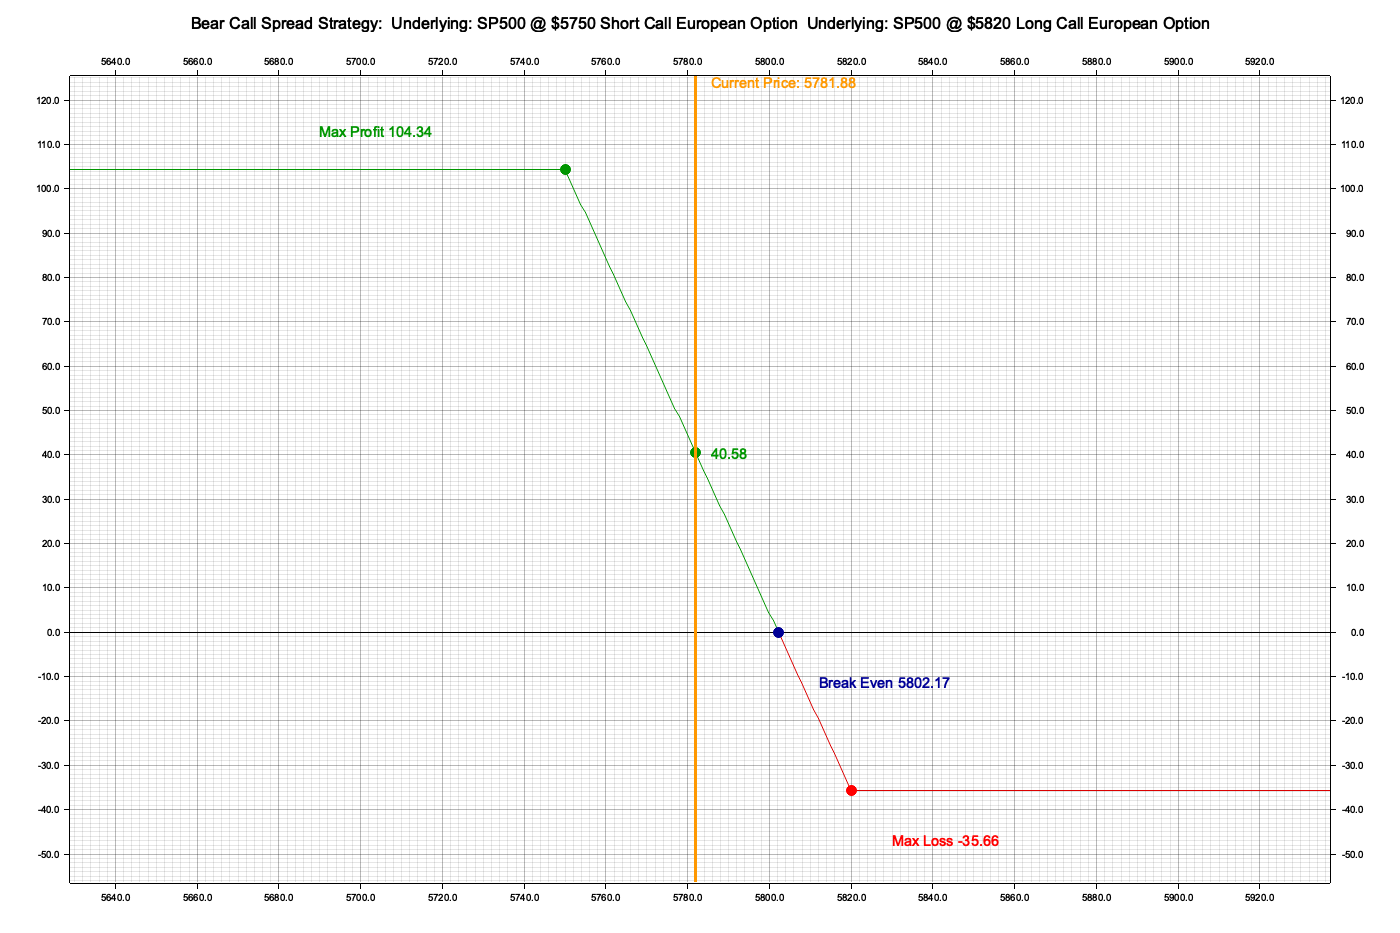
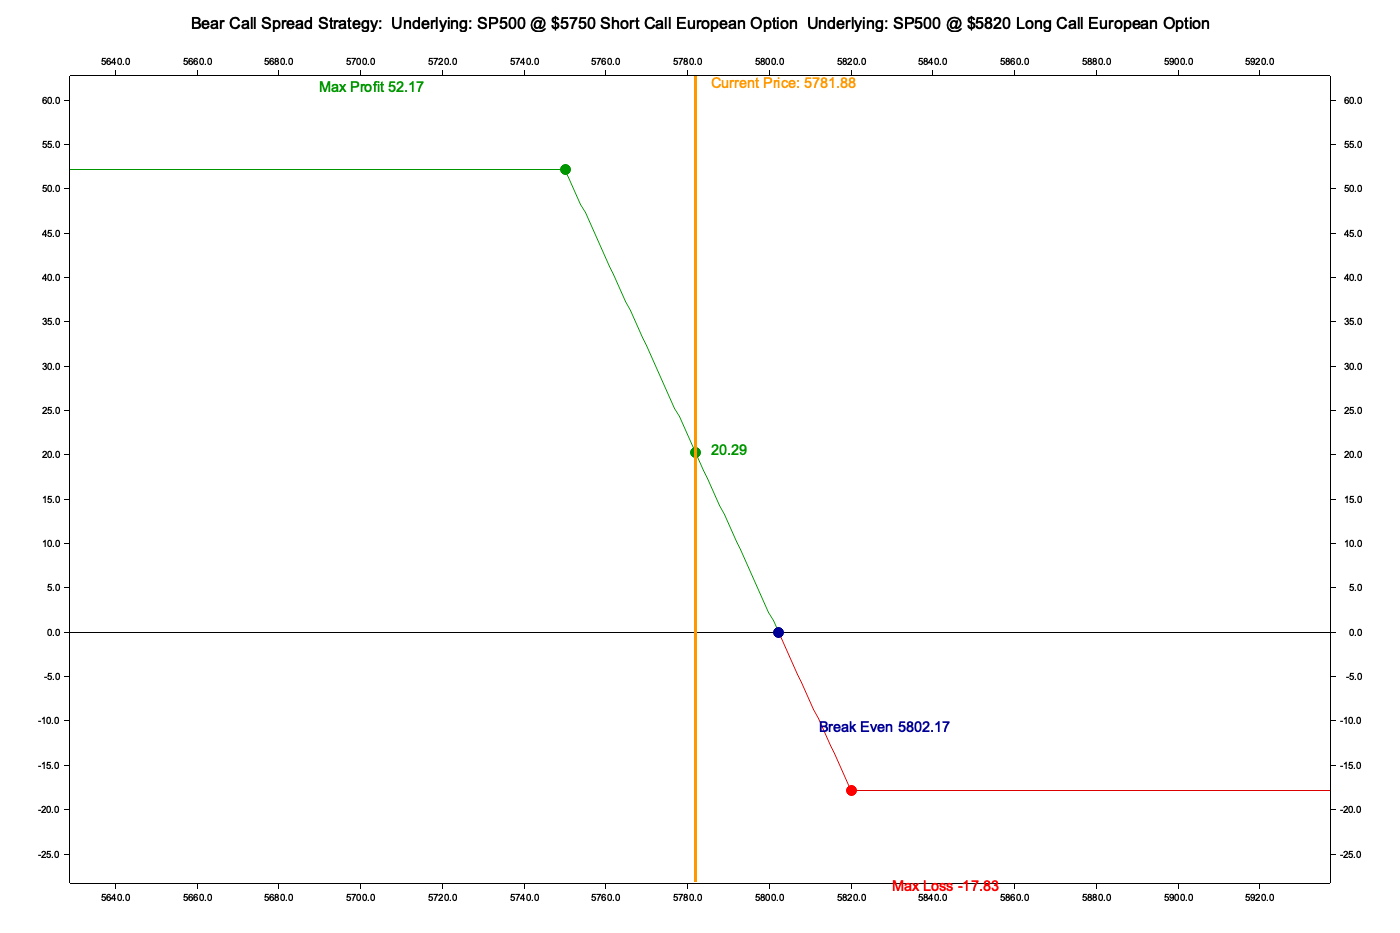
Update bear call spread logic and adjust parameters
Removed unused `fees` method from the bear call spread strategy to simplify code. Adjusted long quantity parameter from 2.0 to 1.0 in example strategy for accuracy and better alignment with the intended calculation. (ref. #83)

Changed region(s): [[0.0307, 0.0622, 0.9829, 0.9636]]

diff --git a/src/strategies/bear_call_spread.rs b/src/strategies/bear_call_spread.rs
@@ -233,14 +233,6 @@ impl Strategies for BearCallSpread {
         )
     }
 
-    fn fees(&self) -> Result<Decimal, StrategyError> {
-        let result = self.short_call.open_fee
-            + self.short_call.close_fee
-            + self.long_call.open_fee
-            + self.long_call.close_fee;
-        Ok(Decimal::from_f64(result).unwrap())
-    }
-
     fn profit_area(&self) -> Result<Decimal, StrategyError> {
         let high = self.max_profit().unwrap_or(Positive::ZERO);
         let base = self.break_even_points[0] - self.short_call.option.strike_price;

diff --git a/examples/examples_strategies/src/bin/strategy_bear_call_spread.rs b/examples/examples_strategies/src/bin/strategy_bear_call_spread.rs
@@ -28,7 +28,7 @@ fn main() -> Result<(), Box<dyn Error>> {
         pos!(0.18),     // implied_volatility
         dec!(0.05),     // risk_free_rate
         Positive::ZERO, // dividend_yield
-        pos!(2.0),      // long quantity
+        pos!(1.0),      // long quantity
         85.04,          // premium_long
         29.85,          // premium_short
         0.78,           // open_fee_long
